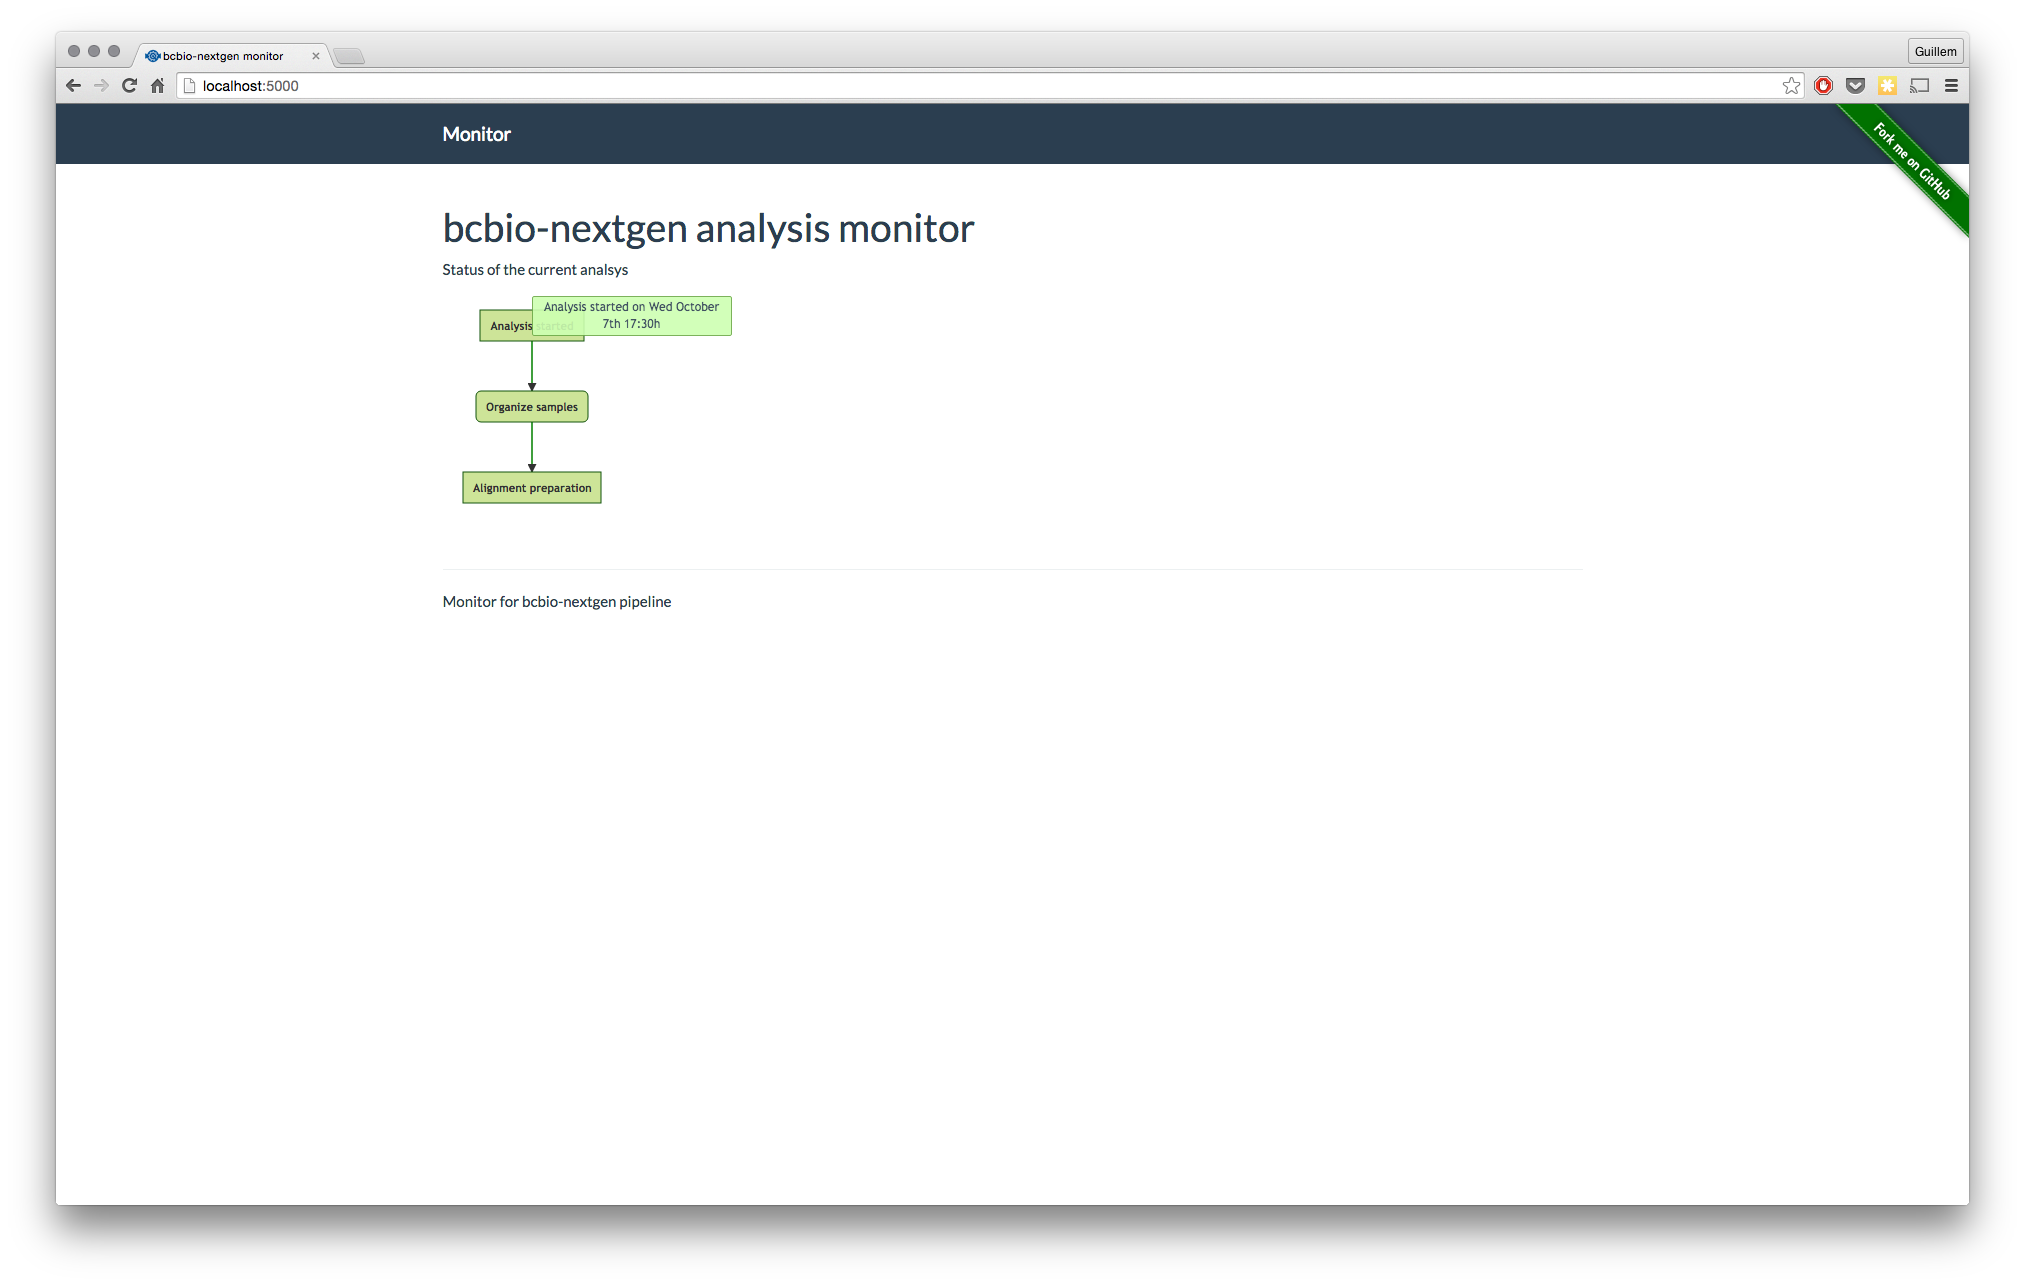
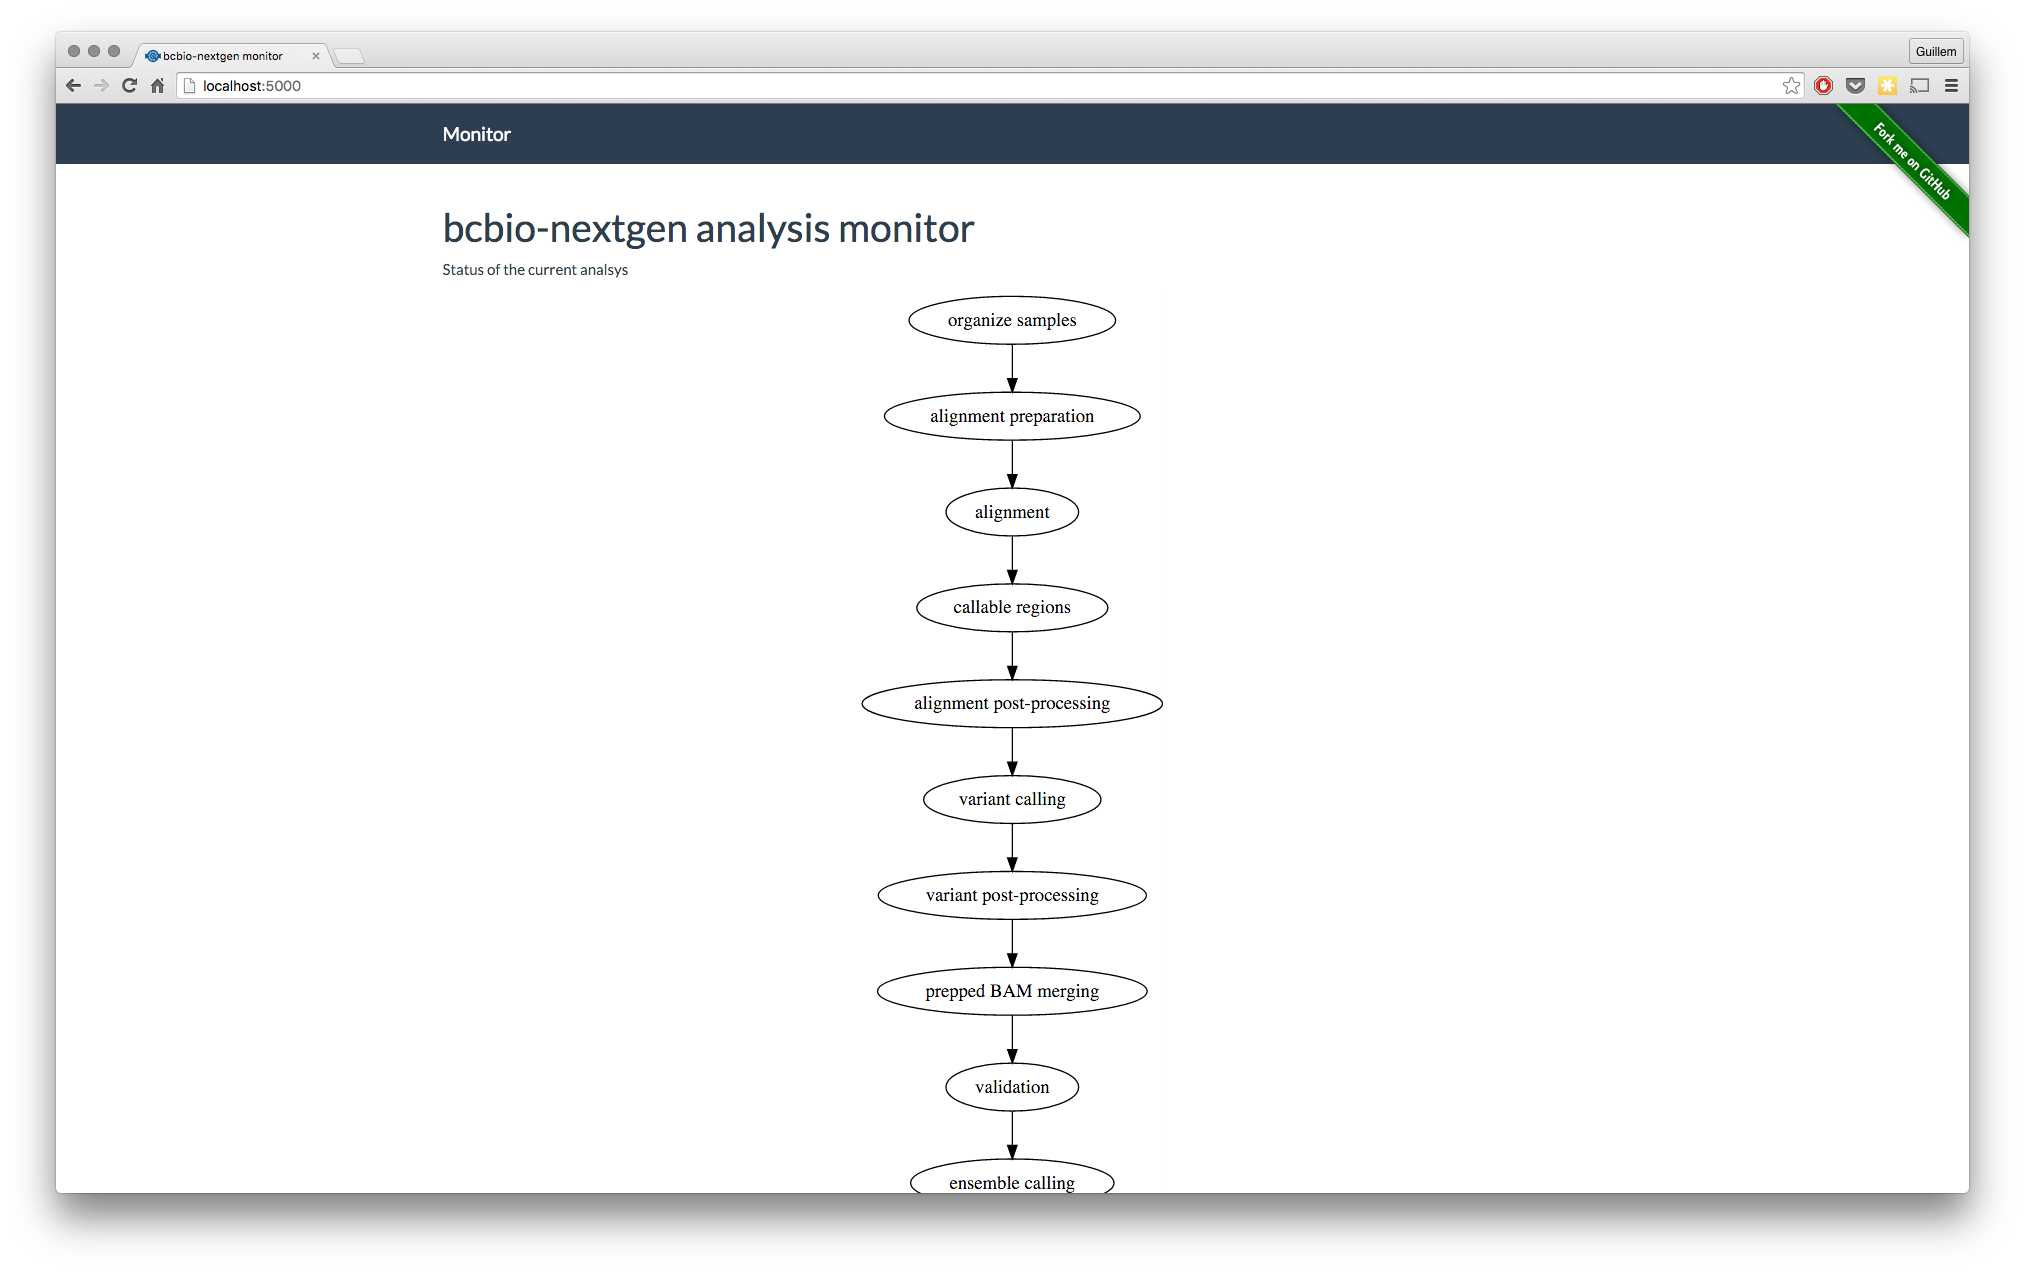
Draw complete chard from log file

diff --git a/bcbio_monitor/static/js/monitor.js b/bcbio_monitor/static/js/monitor.js
@@ -6,9 +6,11 @@ function update_flowchart() {
     $.getJSON("/api/graph", function(data){
         var fc_viz = Viz(data['graph_data'], options={ format:"svg", engine:"dot" });
         var parser = new DOMParser();
-        var fc_svg = parser.parseFromString(fc_viz, "image/svg+xml");
+        var fc_svg = parser.parseFromString(fc_viz, "image/svg+xml").children[0];
+        fc_svg.style.display = "block";
+        fc_svg.style.margin = "auto";
         var div_graph = $('#progress_graph')[0];
-        div_graph.appendChild(fc_svg.children[0]);
+        div_graph.appendChild(fc_svg);
     });
 }
 
